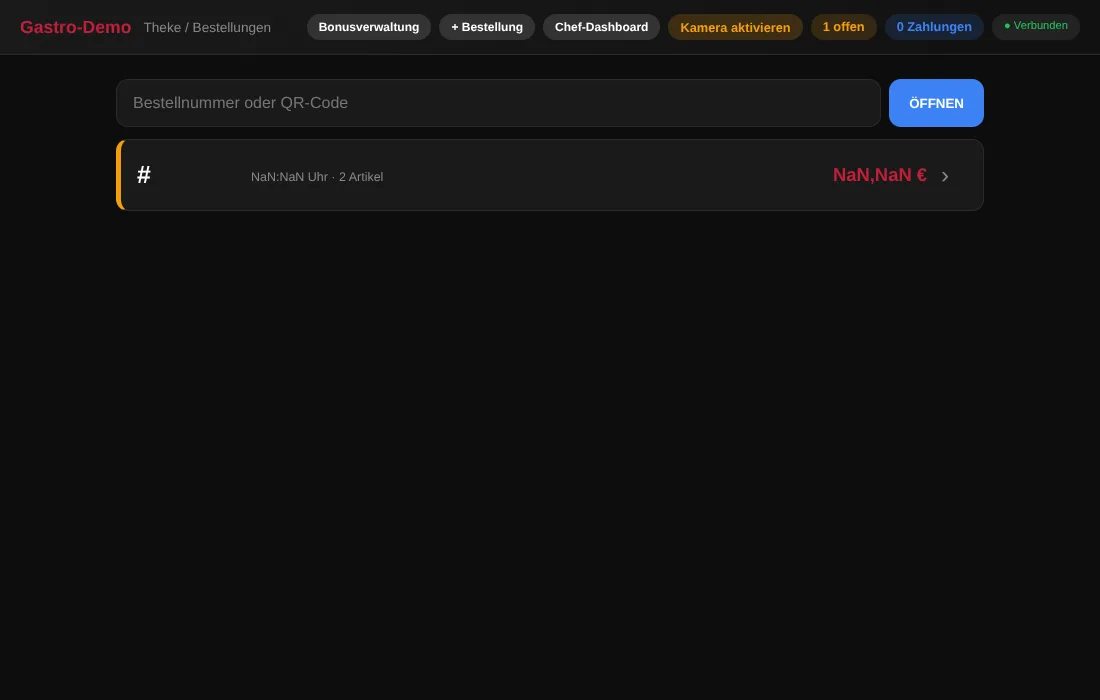
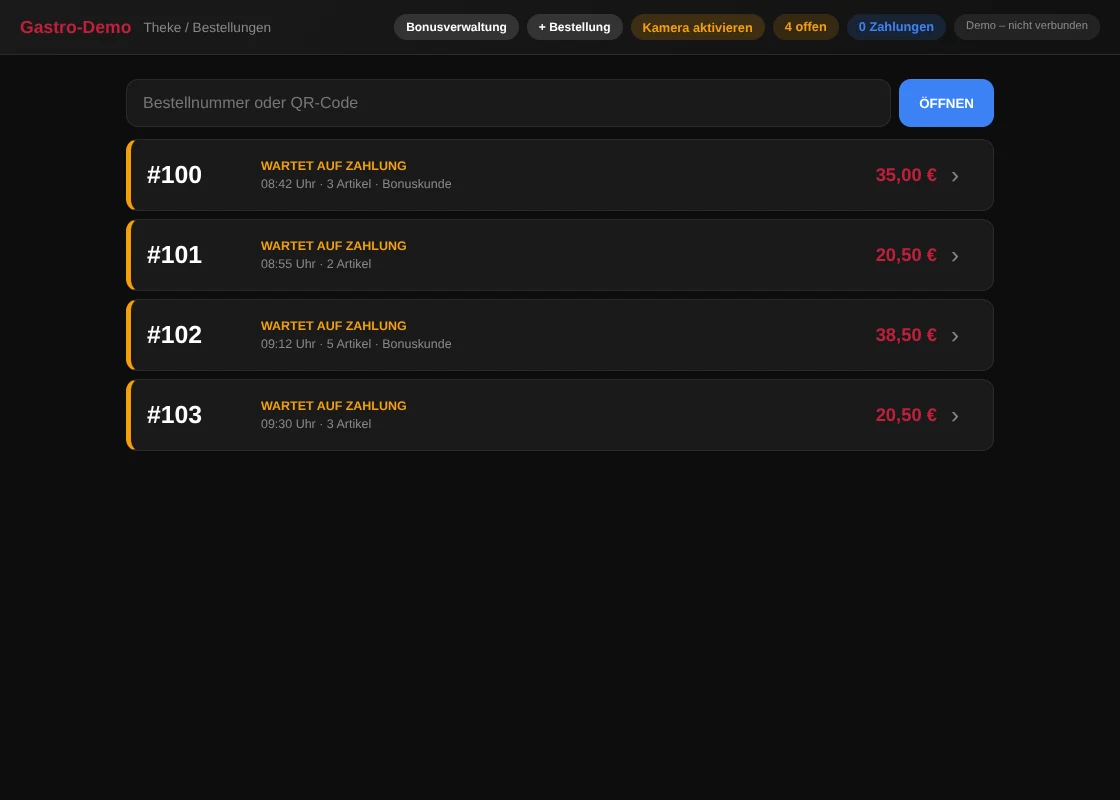
Improve counter preview and highlight branded apps and customer offers

diff --git a/gastronomie.html b/gastronomie.html
@@ -14,7 +14,17 @@
   <a class="logo" href="/"><img src="/monogram.svg" alt="">7Hands Solution</a>
   <nav aria-label="Hauptnavigation"><a href="/">Startseite</a><a href="/loesungen.html" aria-current="page">Lösungen</a><a href="/kontakt.html">Kontakt</a></nav>
 </header>
-<main class="showcase"><div class="page-intro"><p class="kicker">Bereits im Einsatz</p><h1>Bestellen, kassieren und Stammkunden binden</h1><p>Für Imbisse und Restaurants. Alle App-Ansichten zeigen die Oberfläche mit neutralem Branding und Beispieldaten.</p></div><section class="feature-hero detail-hero"><div class="feature-copy"><h2>Hier bestellen</h2><p>Gäste scannen den QR-Code am Tisch und öffnen die digitale Speisekarte auf ihrem Handy. Je nach Betrieb kann die Bestellung auch zur Abholung oder Lieferung angeboten werden.</p><p class="muted">Der QR-Aufsteller ist ein Gestaltungsbeispiel.</p></div><div class="hero-image"><img src="/bilder/qr-tisch.webp" alt="QR-Aufsteller auf Holztisch" loading="eager" decoding="async"></div></section><section class="gallery"><h2>So sieht die Anwendung aus</h2><div class="screens"><figure><a href="/bilder/gastro-dashboard.webp" aria-label="Chef-Dashboard in Originalgröße öffnen"><img src="/bilder/gastro-dashboard.webp" alt="Chef-Dashboard" loading="lazy" decoding="async"></a><figcaption><h3>Chef-Dashboard</h3><p>Kundenzahl, Punktegutschriften, Einlösungen und die letzten Buchungen im Überblick.</p></figcaption></figure><figure><a href="/bilder/gastro-kunden.webp" aria-label="Kundenverwaltung in Originalgröße öffnen"><img src="/bilder/gastro-kunden.webp" alt="Kundenverwaltung" loading="lazy" decoding="async"></a><figcaption><h3>Kundenverwaltung</h3><p>Kunden suchen und ihren aktuellen Punktestand nachsehen.</p></figcaption></figure><figure><a href="/bilder/gastro-bestellen.webp" aria-label="Digitale Speisekarte in Originalgröße öffnen"><img src="/bilder/gastro-bestellen.webp" alt="Digitale Speisekarte" loading="lazy" decoding="async"></a><figcaption><h3>Digitale Speisekarte</h3><p>Gäste wählen Gerichte und Extras aus und legen sie in den Warenkorb.</p></figcaption></figure><figure><a href="/bilder/gastro-terminal.webp" aria-label="Selbstbedienungsterminal in Originalgröße öffnen"><img src="/bilder/gastro-terminal.webp" alt="Selbstbedienungsterminal" loading="lazy" decoding="async"></a><figcaption><h3>Selbstbedienungsterminal</h3><p>Bestellungen vor Ort am Monitor zusammenstellen.</p></figcaption></figure><figure><a href="/bilder/gastro-mitarbeiter.webp" aria-label="Mitarbeiterbestellung in Originalgröße öffnen"><img src="/bilder/gastro-mitarbeiter.webp" alt="Mitarbeiterbestellung" loading="lazy" decoding="async"></a><figcaption><h3>Mitarbeiterbestellung</h3><p>Das Team erfasst Telefon-, Theken- und Lieferbestellungen.</p></figcaption></figure><figure><a href="/bilder/gastro-theke.webp" aria-label="Thekenansicht in Originalgröße öffnen"><img src="/bilder/gastro-theke.webp" alt="Thekenansicht" loading="lazy" decoding="async"></a><figcaption><h3>Thekenansicht</h3><p>Eingehende Bestellungen prüfen und die Zahlung an der Theke erfassen.</p></figcaption></figure><figure><a href="/bilder/gastro-bonus.webp" aria-label="Digitale Bonuskarte in Originalgröße öffnen"><img src="/bilder/gastro-bonus.webp" alt="Digitale Bonuskarte" loading="lazy" decoding="async"></a><figcaption><h3>Digitale Bonuskarte</h3><p>Gäste sehen ihren Punktestand und zeigen ihren persönlichen QR-Code an der Theke vor.</p></figcaption></figure><figure><a href="/bilder/gastro-praemien.webp" aria-label="Prämienübersicht in Originalgröße öffnen"><img src="/bilder/gastro-praemien.webp" alt="Prämienübersicht" loading="lazy" decoding="async"></a><figcaption><h3>Prämienübersicht</h3><p>Gäste sehen verfügbare Prämien und wie viele Punkte sie dafür brauchen.</p></figcaption></figure></div></section><section class="end-panel"><div><h2>Passt das zu Ihrem Betrieb?</h2><p>Wir besprechen, ob Sie mit Bestellungen, dem Bonusprogramm oder beiden starten möchten.</p></div><a class="button" href="/kontakt.html">Projekt besprechen <span aria-hidden="true">→</span></a></section></main>
+<main class="showcase"><div class="page-intro"><p class="kicker">Bereits im Einsatz</p><h1>Bestellen, kassieren und Stammkunden binden</h1><p>Für Imbisse und Restaurants. Alle App-Ansichten zeigen die Oberfläche mit neutralem Branding und Beispieldaten.</p></div><section class="feature-hero detail-hero"><div class="feature-copy"><h2>Hier bestellen</h2><p>Gäste scannen den QR-Code am Tisch und öffnen die digitale Speisekarte auf ihrem Handy. Je nach Betrieb kann die Bestellung auch zur Abholung oder Lieferung angeboten werden.</p><p class="muted">Der QR-Aufsteller ist ein Gestaltungsbeispiel.</p></div><div class="hero-image"><img src="/bilder/qr-tisch.webp" alt="QR-Aufsteller auf Holztisch" loading="eager" decoding="async"></div></section><section class="screens" aria-label="Eigene App und Kundenangebote">
+  <article class="contact">
+    <h2>Ihre Web-App. Ihre Marke.</h2>
+    <p>Jeder Betrieb erhält eine eigene Web-App mit seinem Geschäftsnamen und Logo. Gäste sehen Ihre Marke auf der digitalen Speisekarte und in der Bonuskarte.</p>
+  </article>
+  <article class="contact">
+    <h2>Angebote direkt aufs Handy</h2>
+    <p>Schicken Sie Mittagsangebote, neue Gerichte oder Extra-Punkte-Aktionen als Push-Nachricht direkt an Kundinnen und Kunden, die Angebote und Benachrichtigungen aktiviert haben.</p>
+  </article>
+</section>
+<section class="gallery"><h2>So sieht die Anwendung aus</h2><div class="screens"><figure><a href="/bilder/gastro-dashboard.webp" aria-label="Chef-Dashboard in Originalgröße öffnen"><img src="/bilder/gastro-dashboard.webp" alt="Chef-Dashboard" loading="lazy" decoding="async"></a><figcaption><h3>Chef-Dashboard</h3><p>Kundenzahl, Punktegutschriften, Einlösungen und die letzten Buchungen im Überblick.</p></figcaption></figure><figure><a href="/bilder/gastro-kunden.webp" aria-label="Kundenverwaltung in Originalgröße öffnen"><img src="/bilder/gastro-kunden.webp" alt="Kundenverwaltung" loading="lazy" decoding="async"></a><figcaption><h3>Kundenverwaltung</h3><p>Kunden suchen und ihren aktuellen Punktestand nachsehen.</p></figcaption></figure><figure><a href="/bilder/gastro-bestellen.webp" aria-label="Digitale Speisekarte in Originalgröße öffnen"><img src="/bilder/gastro-bestellen.webp" alt="Digitale Speisekarte" loading="lazy" decoding="async"></a><figcaption><h3>Digitale Speisekarte</h3><p>Gäste wählen Gerichte und Extras aus und legen sie in den Warenkorb.</p></figcaption></figure><figure><a href="/bilder/gastro-terminal.webp" aria-label="Selbstbedienungsterminal in Originalgröße öffnen"><img src="/bilder/gastro-terminal.webp" alt="Selbstbedienungsterminal" loading="lazy" decoding="async"></a><figcaption><h3>Selbstbedienungsterminal</h3><p>Bestellungen vor Ort am Monitor zusammenstellen.</p></figcaption></figure><figure><a href="/bilder/gastro-mitarbeiter.webp" aria-label="Mitarbeiterbestellung in Originalgröße öffnen"><img src="/bilder/gastro-mitarbeiter.webp" alt="Mitarbeiterbestellung" loading="lazy" decoding="async"></a><figcaption><h3>Mitarbeiterbestellung</h3><p>Das Team erfasst Telefon-, Theken- und Lieferbestellungen.</p></figcaption></figure><figure><a href="/bilder/gastro-theke.webp" aria-label="Thekenansicht in Originalgröße öffnen"><img src="/bilder/gastro-theke.webp" alt="Thekenansicht" loading="lazy" decoding="async"></a><figcaption><h3>Thekenansicht</h3><p>Offene Bestellungen und Eurobeträge auf einen Blick. Das Team erfasst Zahlungen an der Theke. Das Chef-Dashboard ist ein separater Verwaltungsbereich.</p></figcaption></figure><figure><a href="/bilder/gastro-bonus.webp" aria-label="Digitale Bonuskarte in Originalgröße öffnen"><img src="/bilder/gastro-bonus.webp" alt="Digitale Bonuskarte" loading="lazy" decoding="async"></a><figcaption><h3>Digitale Bonuskarte</h3><p>Gäste sehen ihren Punktestand und zeigen ihren persönlichen QR-Code an der Theke vor.</p></figcaption></figure><figure><a href="/bilder/gastro-praemien.webp" aria-label="Prämienübersicht in Originalgröße öffnen"><img src="/bilder/gastro-praemien.webp" alt="Prämienübersicht" loading="lazy" decoding="async"></a><figcaption><h3>Prämienübersicht</h3><p>Gäste sehen verfügbare Prämien und wie viele Punkte sie dafür brauchen.</p></figcaption></figure></div></section><section class="end-panel"><div><h2>Passt das zu Ihrem Betrieb?</h2><p>Wir besprechen, ob Sie mit Bestellungen, dem Bonusprogramm oder beiden starten möchten.</p></div><a class="button" href="/kontakt.html">Projekt besprechen <span aria-hidden="true">→</span></a></section></main>
 <footer>7Hands Solution · <a href="/impressum.html">Impressum</a> · <a href="/datenschutz.html">Datenschutz</a> · Rechtliche Pflichtangaben werden vervollständigt.</footer>
 </body>
 </html>
